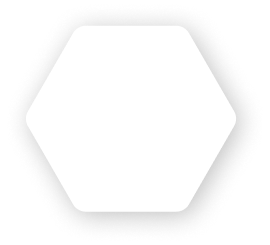
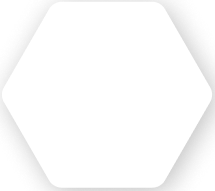
Update herosection

diff --git a/components/homepage/CrossFitConent.tsx b/components/homepage/CrossFitConent.tsx
@@ -8,7 +8,7 @@ const CrossFitContent = () => {
         background: "url('white_background.png') ",
       }}
     >
-      <div className="container mx-auto">
+      <div className="container mx-auto lg:px-20 px-0">
         <div className="flex justify-end container mx-auto p-8  lg:p-28 ">
           <div className="w-full md:w-1/2 text-xl tracking-widest text-primary right-to-left">
             <h1 className="tracking-widest md:text-3xl text-xl uppercase font-semibold mb-5  ">
@@ -38,22 +38,22 @@ const CrossFitContent = () => {
             <HexagonBox
               source={"./engineers.svg"}
               text={"Engineers"}
-              height=" h-44"
-              width="w-44"
+              height=" h-20"
+              width="w-20"
             />
             <HexagonBox
               source={"./ui.svg"}
               text={"UX DESIGNERS"}
-              height="h-44"
-              width="w-44"
+              height=" h-20"
+              width="w-20"
             />
           </div>
           <div>
             <HexagonBox
               source={"./developers.svg"}
               text={"DEVELOPERS"}
-              height="h-44"
-              width="w-44"
+              height="h-20"
+              width="w-20"
             />
           </div>
         </div>

diff --git a/components/common/HexagonBox.tsx b/components/common/HexagonBox.tsx
@@ -8,18 +8,20 @@ interface HexgonProps {
 const HexagonBox = ({
   source,
   text,
-  height = "h-40",
-  width = "w-40",
+  height = "h-1/3",
+  width = "w-1/3",
 }: HexgonProps) => {
   return (
-    <div className="polygon_wrapper">
-      <div
-        className={`hexagon  ${
-          height + " " + width
-        }  flex justify-center items-center flex-col bg-white gap-2 rounded-3xl`}
-      >
-        <img src={source} className="h-12 w-12 object-contain  " />
-        <p className="text-sm text-primary font-semibold">{text}</p>
+    <div className="polygon_wrapper ">
+      <div className="relative">
+        <img
+          src="/polygon.png"
+          className="sm:h-52 sm:w-52 w-36 h-36  object-contain"
+        />
+        <div className="absolute top-0 flex justify-center items-center flex-col bottom-0 left-0 right-0">
+          <img src={source} className={`${height} ${width}`} />
+          <span className=" text-xs">{text}</span>
+        </div>
       </div>
     </div>
   );

diff --git a/components/homepage/HeroSectionContent.tsx b/components/homepage/HeroSectionContent.tsx
@@ -3,8 +3,8 @@ import HexagonBox from "../common/HexagonBox";
 const HeroSectionContent = () => {
   return (
     <>
-      <div className=" bg-primary ">
-        <div className="flex justify-between container mx-auto items-center flex-wrap relative -top-20 gap-4 p-2 sm:p-0">
+      <div className=" bg-primary lg:px-20 px-0 ">
+        <div className="flex md:justify-between justify-center container mx-auto items-center lg:flex-nowrap  flex-wrap relative -top-16 md:-top-28 gap-4 p-2 sm:p-0">
           <HexagonBox source="/react.svg" text="React" />
           <HexagonBox source="/trace.svg" text=".Net" />
           <HexagonBox source="/uxui.svg" text="UX/UI" />

diff --git a/components/homepage/HeroSection.tsx b/components/homepage/HeroSection.tsx
@@ -9,7 +9,7 @@ const HeroSection = () => {
     >
       <div className="container mx-auto">
         <div className="flex items-center  ">
-          <div className=" w-full  flex  gap-5 flex-col p-10 sm:p-20">
+          <div className=" w-full  flex  gap-5 flex-col p-20">
             <div className="flex flex-col gap-0">
               <p className="tracking-widest font-medium text-primary sm:text-3xl text-2xl uppercase ">
                 When you’re building software.

diff --git a/styles/globals.css b/styles/globals.css
@@ -20,8 +20,6 @@ body {
 }
 
 
-
-
 .text_gradient {
     background: linear-gradient(96.73deg, #C1292A 27.66%, #D0631A 85.99%);
     -webkit-background-clip: text;
@@ -47,4 +45,8 @@ body {
   .slick-arrow {
     margin-top: -60px;
   } 
+
+.linear_gradient {
+  background: "linear-gradient(to top, #282828 50%, white 50%)"
+}
   

diff --git a/components/homepage/NavBar.tsx b/components/homepage/NavBar.tsx
@@ -10,7 +10,7 @@ const NavBar = () => {
   ];
 
   return (
-    <nav className="bg-primary">
+    <nav className="bg-primary lg:px-20 px-0">
       <div className=" container mx-auto">
         <div className="flex justify-between h-11 items-center  p-2 sm:p-0">
           {/* Right part here */}
